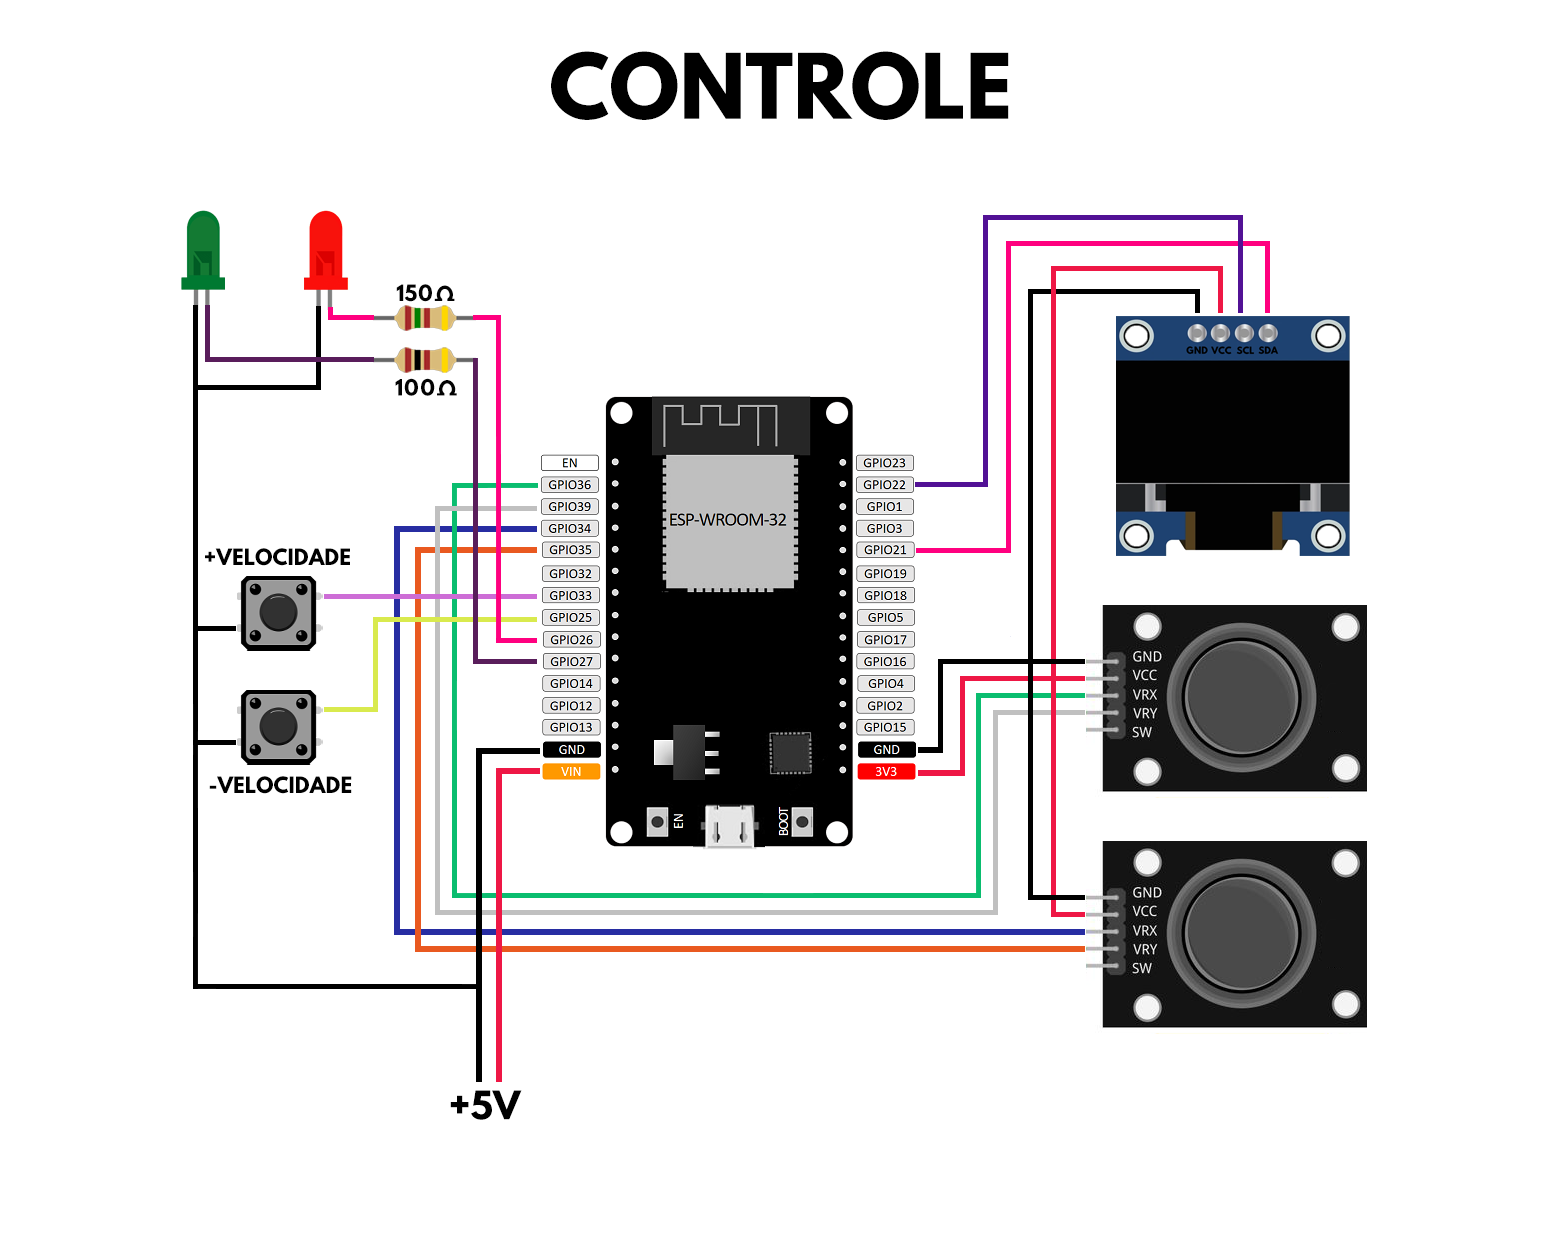
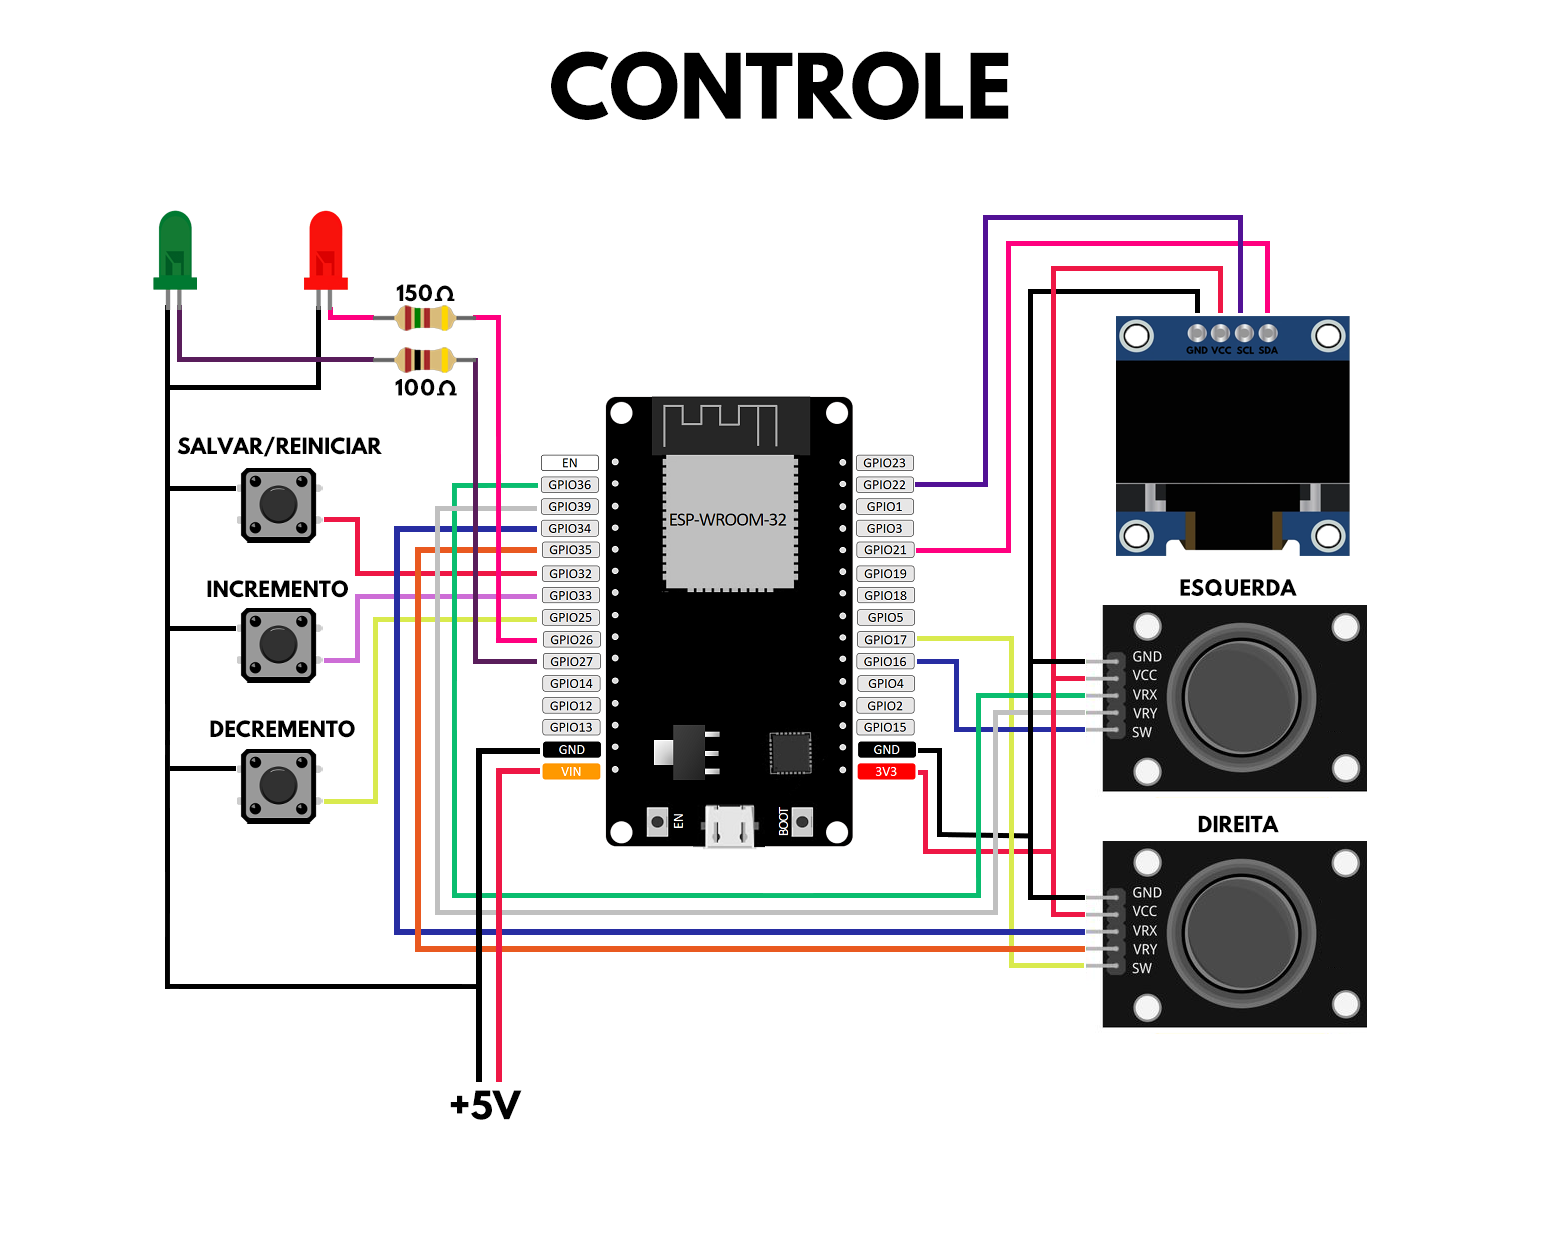
documentacao atualizada

diff --git a/README.md b/README.md
@@ -1,6 +1,6 @@
-![version](https://img.shields.io/badge/version-1.1.0-green)
+![version](https://img.shields.io/badge/version-1.2.0-green)
 
-- O código foi testado com a versão 3.1.1 da biblioteca do ESP32.
+- O código foi testado com a versão 3.1.2 da biblioteca do ESP32.
 - Certifique-se de substituir o endereço MAC no código pelos do seu transmissor e receptor.
 
 ## Lista de partes
@@ -10,7 +10,7 @@
 - 1x Módulo Driver Ponte H - L298N
 - 2x Power Banks (ou módulos de baterias) para o carro e controle
 - 2x Módulo Joystick Analógico de 3 Eixos
-- 2x Chave Táteis (push buttons)
+- 3x Chave Táteis (push buttons)
 - 1x Display OLED SSD1306 0.96″ 128×64 (indicador do nível de velocidade)
 - 1x LED 3mm verde
 - 1x LED 3mm vermelho
